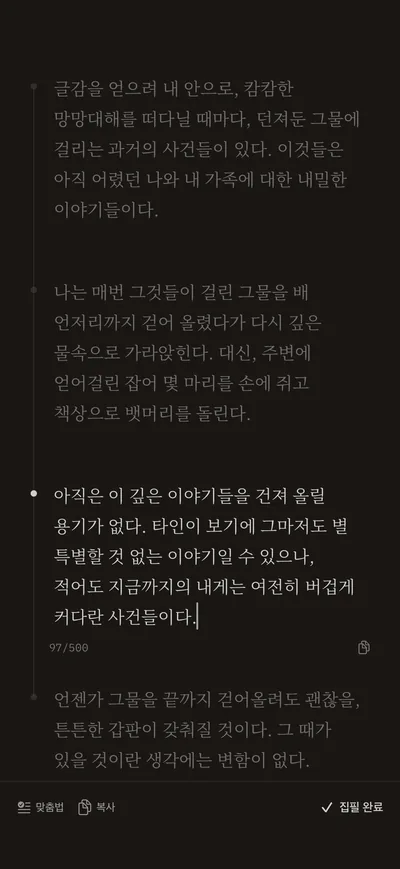
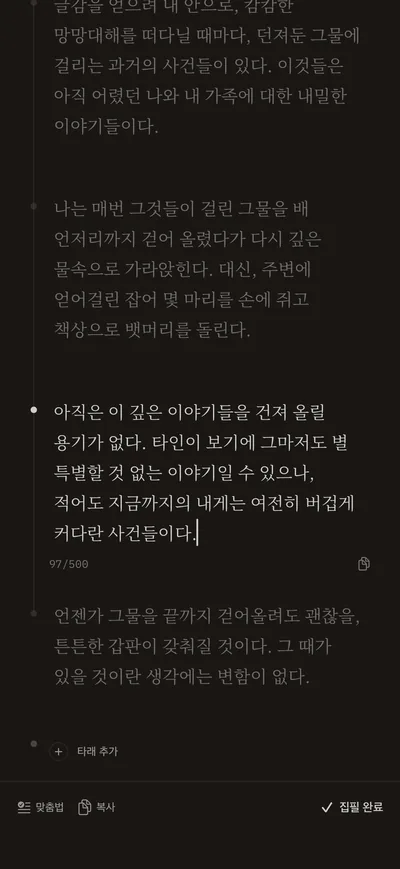
Drop the Dynamic Island from the centre screen
It sat alone on a frameless screen and read as awkward (owner,
2026-10-01). The centre shot is recaptured scrolled to the end of the
piece, so the editor fills the screen to its top edge again.

diff --git a/index.html b/index.html
@@ -28,7 +28,7 @@
 <link rel="preconnect" href="https://fonts.googleapis.com" />
 <link rel="preconnect" href="https://fonts.gstatic.com" crossorigin />
 <link rel="stylesheet" href="https://fonts.googleapis.com/css2?family=Nanum+Myeongjo:wght@400&display=swap" />
-<link rel="stylesheet" href="/assets/site.css?v=8a12471b1e" />
+<link rel="stylesheet" href="/assets/site.css?v=eee680ea4e" />
 </head>
 <body class="landing">
 <header class="site-header">
@@ -51,7 +51,7 @@
   <div class="spread">
     <figure class="phone outer"><picture><source media="(prefers-color-scheme: dark)" srcset="/assets/screens/memo-dark-400.webp?v=0bc282d9c6 400w, /assets/screens/memo-dark-800.webp?v=0fd58112ab 800w" sizes="(max-width: 899px) 64vw, 300px" /><img src="/assets/screens/memo-light-800.webp?v=4f3715e570" srcset="/assets/screens/memo-light-400.webp?v=c1491e2fc7 400w, /assets/screens/memo-light-800.webp?v=4f3715e570 800w" sizes="(max-width: 899px) 64vw, 300px" width="800" height="1738" alt="처음에 적어둔 글감 메모가 위에 남아 있고, 그 아래로 타래가 이어지는 화면" loading="lazy" decoding="async" /></picture><figcaption>글감이 작품으로</figcaption></figure>
     <figure class="phone inner"><picture><source media="(prefers-color-scheme: dark)" srcset="/assets/screens/overflow-dark-400.webp?v=bd0e0e7988 400w, /assets/screens/overflow-dark-800.webp?v=63d2999258 800w" sizes="(max-width: 899px) 64vw, 300px" /><img src="/assets/screens/overflow-light-800.webp?v=9321732099" srcset="/assets/screens/overflow-light-400.webp?v=ec6accc743 400w, /assets/screens/overflow-light-800.webp?v=9321732099 800w" sizes="(max-width: 899px) 64vw, 300px" width="800" height="1738" alt="500자를 넘긴 타래 — 넘친 부분에만 옅은 붉은 밑칠이 깔리고 631/500이 표시된 화면" loading="lazy" decoding="async" /></picture><figcaption>Threads 최적화</figcaption></figure>
-    <figure class="phone center"><picture><source media="(prefers-color-scheme: dark)" srcset="/assets/screens/writing-dark-400.webp?v=8d4c0baec6 400w, /assets/screens/writing-dark-800.webp?v=b94443d234 800w" sizes="(max-width: 899px) 64vw, 300px" /><img src="/assets/screens/writing-light-800.webp?v=fde056010a" srcset="/assets/screens/writing-light-400.webp?v=c1f4013fca 400w, /assets/screens/writing-light-800.webp?v=fde056010a 800w" sizes="(max-width: 899px) 64vw, 300px" width="800" height="1738" alt="작성 모드 — 쓰고 있는 타래만 또렷하고 나머지는 흐리게 가라앉은 Rapt 화면" decoding="async" /></picture><figcaption>몰입을 위한 UI</figcaption></figure>
+    <figure class="phone center"><picture><source media="(prefers-color-scheme: dark)" srcset="/assets/screens/writing-dark-400.webp?v=4de68f5e20 400w, /assets/screens/writing-dark-800.webp?v=90d9ffb7fa 800w" sizes="(max-width: 899px) 64vw, 300px" /><img src="/assets/screens/writing-light-800.webp?v=bd02f9adec" srcset="/assets/screens/writing-light-400.webp?v=96fbf21e71 400w, /assets/screens/writing-light-800.webp?v=bd02f9adec 800w" sizes="(max-width: 899px) 64vw, 300px" width="800" height="1738" alt="작성 모드 — 쓰고 있는 타래만 또렷하고 나머지는 흐리게 가라앉은 Rapt 화면" decoding="async" /></picture><figcaption>몰입을 위한 UI</figcaption></figure>
     <figure class="phone inner"><picture><source media="(prefers-color-scheme: dark)" srcset="/assets/screens/spellcheck-dark-400.webp?v=1434c33bf6 400w, /assets/screens/spellcheck-dark-800.webp?v=3e4ae75efb 800w" sizes="(max-width: 899px) 64vw, 300px" /><img src="/assets/screens/spellcheck-light-800.webp?v=c57aca3eea" srcset="/assets/screens/spellcheck-light-400.webp?v=3eba3f858f 400w, /assets/screens/spellcheck-light-800.webp?v=c57aca3eea 800w" sizes="(max-width: 899px) 64vw, 300px" width="800" height="1738" alt="맞춤법 검사 결과 — 고칠 곳마다 원래 표기와 제안이 놓이고, 하나씩 반영하거나 아래 「모두 반영」으로 한 번에 반영할 수 있는 화면" loading="lazy" decoding="async" /></picture><figcaption>편리한 교정</figcaption></figure>
     <figure class="phone outer"><picture><source media="(prefers-color-scheme: dark)" srcset="/assets/screens/publish-dark-400.webp?v=4913087d8d 400w, /assets/screens/publish-dark-800.webp?v=2b2d60b119 800w" sizes="(max-width: 899px) 64vw, 300px" /><img src="/assets/screens/publish-light-800.webp?v=03aa98a5f4" srcset="/assets/screens/publish-light-400.webp?v=7f0c27a0b3 400w, /assets/screens/publish-light-800.webp?v=03aa98a5f4 800w" sizes="(max-width: 899px) 64vw, 300px" width="800" height="1738" alt="Threads 발행 화면 — 네 개 포스트가 모두 발행되었고 아래에 열기 버튼이 있는 화면" loading="lazy" decoding="async" /></picture><figcaption>즉각적인 발행</figcaption></figure>
   </div>

diff --git a/assets/site.css b/assets/site.css
@@ -440,7 +440,6 @@ a.status.get:hover {
 }
 
 .phone picture {
-  position: relative;           /* 다이내믹 아일랜드(::after)의 기준 */
   display: block;
 }
 
@@ -459,21 +458,9 @@ a.status.get:hover {
       calc(var(--w) * -0.0054) var(--shadow-near);
 }
 
-/* 다이내믹 아일랜드 — 가운데 한 장("몰입을 위한 UI")에만 얹는다(오너, 2026-09-30).
- * 나머지 네 장과 스토어 컷에는 없다. 크기·위치는 실제 비율(화면 폭의 28.6%·8.48%,
- * 위에서 2.5%)이다. 그 자리는 작성 모드 컷의 첫 타래 위 여백이라 글자를 가리지
- * 않는다 — 그렇게 찍었다(앱 저장소 RaptStoreScreenshots.captureWriting). */
-.phone.center picture::after {
-  content: "";
-  position: absolute;
-  top: calc(var(--w) * 0.025);
-  left: 50%;
-  width: calc(var(--w) * 0.286);
-  height: calc(var(--w) * 0.0848);
-  transform: translateX(-50%);
-  border-radius: 999px;
-  background: #000;
-}
+/* 다이내믹 아일랜드는 그리지 않는다. 가운데 한 장("몰입을 위한 UI")에만 얹었다가
+ * 어색해서 걷어냈다(오너, 2026-10-01) — 기기 틀 없는 화면에 아일랜드만 떠 있었다.
+ * 그 컷도 다시 글 끝까지 내려 찍어, 화면 맨 위까지 편집기로 차 있다. */
 
 .phone figcaption {
   margin-top: 20px;

diff --git a/threads-callback/index.html b/threads-callback/index.html
@@ -15,7 +15,7 @@
 <link rel="preconnect" href="https://fonts.googleapis.com" />
 <link rel="preconnect" href="https://fonts.gstatic.com" crossorigin />
 <link rel="stylesheet" href="https://fonts.googleapis.com/css2?family=Nanum+Myeongjo:wght@400&display=swap" />
-<link rel="stylesheet" href="/assets/site.css?v=8a12471b1e" />
+<link rel="stylesheet" href="/assets/site.css?v=eee680ea4e" />
 <script>
   // Meta OAuth는 HTTPS redirect_uri만 허용해 여기로 먼저 돌아온다. 이 페이지는
   // 쿼리스트링(code/state)을 그대로 커스텀 스킴에 실어 Rapt 앱으로 넘기기만

diff --git a/en/index.html b/en/index.html
@@ -28,7 +28,7 @@
 <link rel="preconnect" href="https://fonts.googleapis.com" />
 <link rel="preconnect" href="https://fonts.gstatic.com" crossorigin />
 <link rel="stylesheet" href="https://fonts.googleapis.com/css2?family=Nanum+Myeongjo:wght@400&display=swap" />
-<link rel="stylesheet" href="/assets/site.css?v=8a12471b1e" />
+<link rel="stylesheet" href="/assets/site.css?v=eee680ea4e" />
 </head>
 <body class="landing">
 <header class="site-header">

diff --git a/404.html b/404.html
@@ -26,7 +26,7 @@
 <link rel="preconnect" href="https://fonts.googleapis.com" />
 <link rel="preconnect" href="https://fonts.gstatic.com" crossorigin />
 <link rel="stylesheet" href="https://fonts.googleapis.com/css2?family=Nanum+Myeongjo:wght@400&display=swap" />
-<link rel="stylesheet" href="/assets/site.css?v=8a12471b1e" />
+<link rel="stylesheet" href="/assets/site.css?v=eee680ea4e" />
 </head>
 <body>
 <header class="site-header">

diff --git a/data-deletion/index.html b/data-deletion/index.html
@@ -28,7 +28,7 @@
 <link rel="preconnect" href="https://fonts.googleapis.com" />
 <link rel="preconnect" href="https://fonts.gstatic.com" crossorigin />
 <link rel="stylesheet" href="https://fonts.googleapis.com/css2?family=Nanum+Myeongjo:wght@400&display=swap" />
-<link rel="stylesheet" href="/assets/site.css?v=8a12471b1e" />
+<link rel="stylesheet" href="/assets/site.css?v=eee680ea4e" />
 </head>
 <body>
 <header class="site-header">

diff --git a/en/data-deletion/index.html b/en/data-deletion/index.html
@@ -28,7 +28,7 @@
 <link rel="preconnect" href="https://fonts.googleapis.com" />
 <link rel="preconnect" href="https://fonts.gstatic.com" crossorigin />
 <link rel="stylesheet" href="https://fonts.googleapis.com/css2?family=Nanum+Myeongjo:wght@400&display=swap" />
-<link rel="stylesheet" href="/assets/site.css?v=8a12471b1e" />
+<link rel="stylesheet" href="/assets/site.css?v=eee680ea4e" />
 </head>
 <body>
 <header class="site-header">

diff --git a/en/licenses/index.html b/en/licenses/index.html
@@ -28,7 +28,7 @@
 <link rel="preconnect" href="https://fonts.googleapis.com" />
 <link rel="preconnect" href="https://fonts.gstatic.com" crossorigin />
 <link rel="stylesheet" href="https://fonts.googleapis.com/css2?family=Nanum+Myeongjo:wght@400&display=swap" />
-<link rel="stylesheet" href="/assets/site.css?v=8a12471b1e" />
+<link rel="stylesheet" href="/assets/site.css?v=eee680ea4e" />
 </head>
 <body>
 <header class="site-header">

diff --git a/en/privacy/index.html b/en/privacy/index.html
@@ -28,7 +28,7 @@
 <link rel="preconnect" href="https://fonts.googleapis.com" />
 <link rel="preconnect" href="https://fonts.gstatic.com" crossorigin />
 <link rel="stylesheet" href="https://fonts.googleapis.com/css2?family=Nanum+Myeongjo:wght@400&display=swap" />
-<link rel="stylesheet" href="/assets/site.css?v=8a12471b1e" />
+<link rel="stylesheet" href="/assets/site.css?v=eee680ea4e" />
 </head>
 <body>
 <header class="site-header">

diff --git a/en/support/index.html b/en/support/index.html
@@ -28,7 +28,7 @@
 <link rel="preconnect" href="https://fonts.googleapis.com" />
 <link rel="preconnect" href="https://fonts.gstatic.com" crossorigin />
 <link rel="stylesheet" href="https://fonts.googleapis.com/css2?family=Nanum+Myeongjo:wght@400&display=swap" />
-<link rel="stylesheet" href="/assets/site.css?v=8a12471b1e" />
+<link rel="stylesheet" href="/assets/site.css?v=eee680ea4e" />
 </head>
 <body>
 <header class="site-header">

diff --git a/en/terms/index.html b/en/terms/index.html
@@ -28,7 +28,7 @@
 <link rel="preconnect" href="https://fonts.googleapis.com" />
 <link rel="preconnect" href="https://fonts.gstatic.com" crossorigin />
 <link rel="stylesheet" href="https://fonts.googleapis.com/css2?family=Nanum+Myeongjo:wght@400&display=swap" />
-<link rel="stylesheet" href="/assets/site.css?v=8a12471b1e" />
+<link rel="stylesheet" href="/assets/site.css?v=eee680ea4e" />
 </head>
 <body>
 <header class="site-header">

diff --git a/licenses/index.html b/licenses/index.html
@@ -28,7 +28,7 @@
 <link rel="preconnect" href="https://fonts.googleapis.com" />
 <link rel="preconnect" href="https://fonts.gstatic.com" crossorigin />
 <link rel="stylesheet" href="https://fonts.googleapis.com/css2?family=Nanum+Myeongjo:wght@400&display=swap" />
-<link rel="stylesheet" href="/assets/site.css?v=8a12471b1e" />
+<link rel="stylesheet" href="/assets/site.css?v=eee680ea4e" />
 </head>
 <body>
 <header class="site-header">
